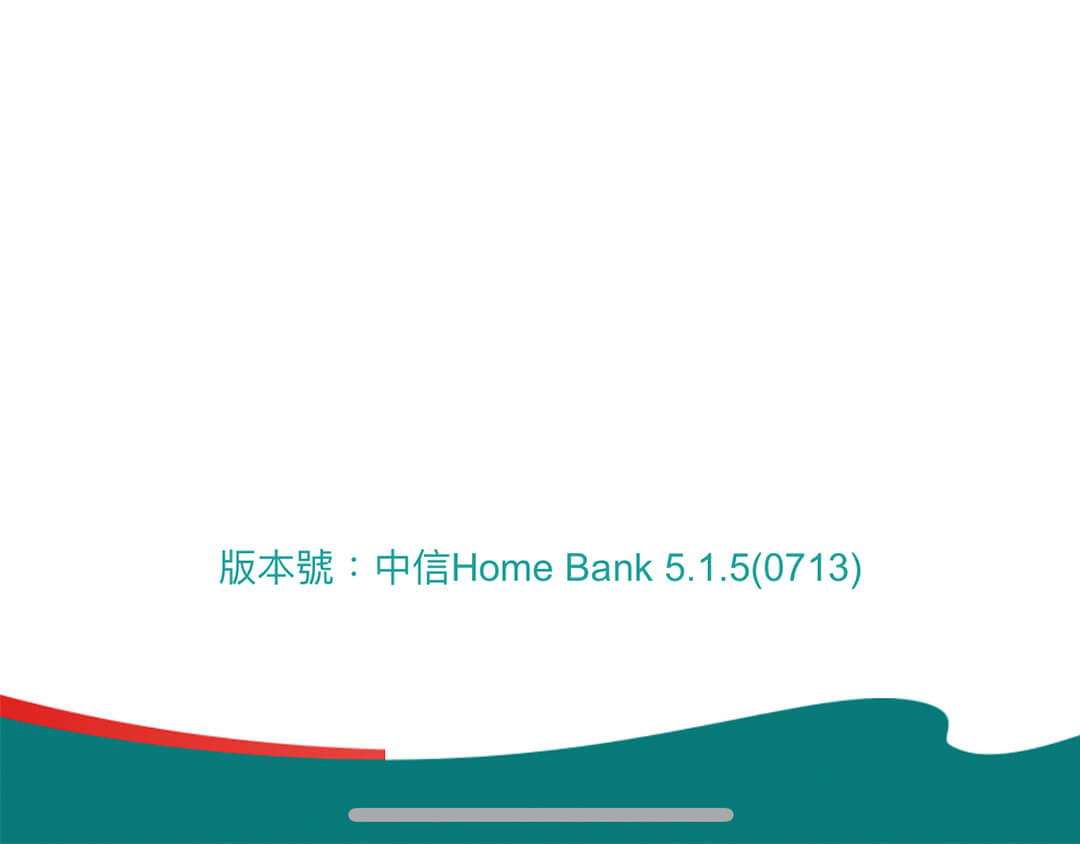
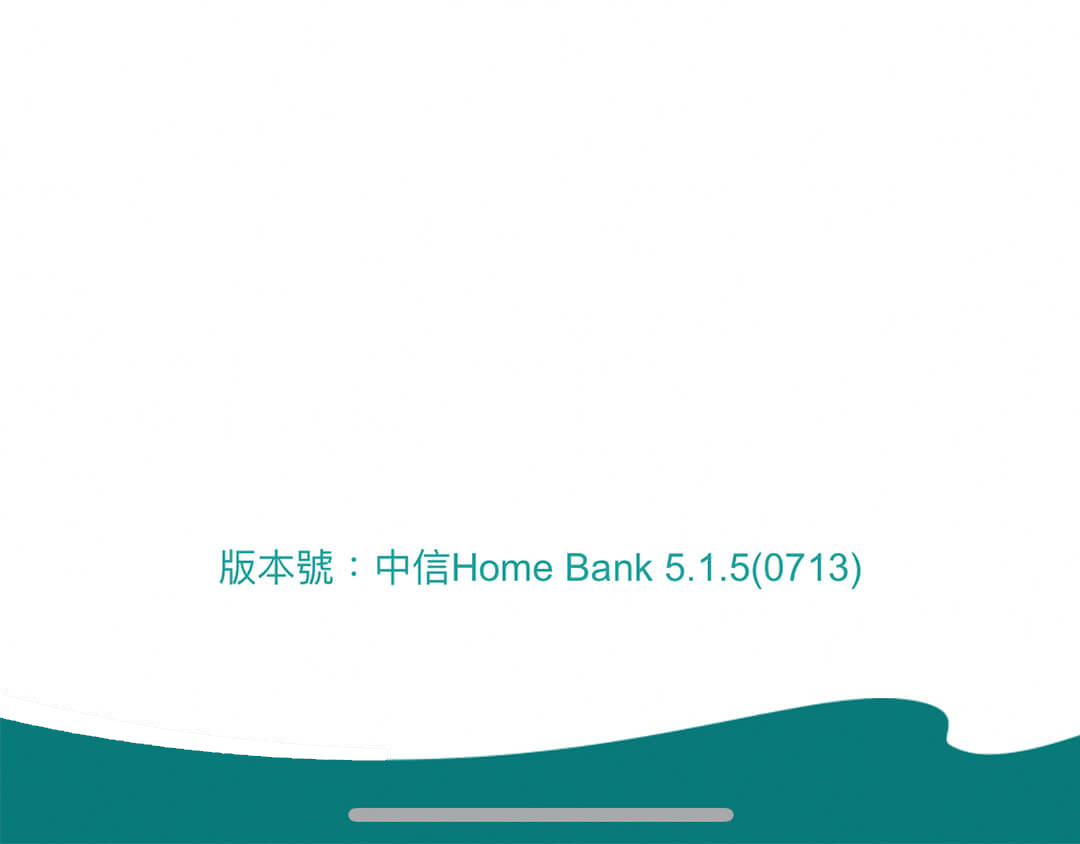
更新step1圖

Changed region(s): [[0.0, 0.8009, 0.3667, 0.9242]]

diff --git a/prj/thebank-demo/public/css/style.min.css b/prj/thebank-demo/public/css/style.min.css
@@ -1,1 +1,1 @@
-@charset "UTF-8";a,abbr,acronym,address,applet,article,aside,audio,b,big,blockquote,body,canvas,caption,center,cite,code,dd,del,details,dfn,div,dl,dt,em,embed,fieldset,figcaption,figure,footer,form,h1,h2,h3,h4,h5,h6,header,hgroup,html,i,iframe,img,ins,kbd,label,legend,li,mark,menu,nav,object,ol,output,p,pre,q,ruby,s,samp,section,small,span,strike,strong,sub,summary,sup,table,tbody,td,tfoot,th,thead,time,tr,tt,u,ul,var,video{margin:0;padding:0;border:0;font-size:16px;font:inherit;vertical-align:baseline}@media only screen and (max-width:800px){a,abbr,acronym,address,applet,article,aside,audio,b,big,blockquote,body,canvas,caption,center,cite,code,dd,del,details,dfn,div,dl,dt,em,embed,fieldset,figcaption,figure,footer,form,h1,h2,h3,h4,h5,h6,header,hgroup,html,i,iframe,img,ins,kbd,label,legend,li,mark,menu,nav,object,ol,output,p,pre,q,ruby,s,samp,section,small,span,strike,strong,sub,summary,sup,table,tbody,td,tfoot,th,thead,time,tr,tt,u,ul,var,video{font-size:15.5px}}@media only screen and (max-width:640px){a,abbr,acronym,address,applet,article,aside,audio,b,big,blockquote,body,canvas,caption,center,cite,code,dd,del,details,dfn,div,dl,dt,em,embed,fieldset,figcaption,figure,footer,form,h1,h2,h3,h4,h5,h6,header,hgroup,html,i,iframe,img,ins,kbd,label,legend,li,mark,menu,nav,object,ol,output,p,pre,q,ruby,s,samp,section,small,span,strike,strong,sub,summary,sup,table,tbody,td,tfoot,th,thead,time,tr,tt,u,ul,var,video{font-size:14px}}@media only screen and (max-width:480px){a,abbr,acronym,address,applet,article,aside,audio,b,big,blockquote,body,canvas,caption,center,cite,code,dd,del,details,dfn,div,dl,dt,em,embed,fieldset,figcaption,figure,footer,form,h1,h2,h3,h4,h5,h6,header,hgroup,html,i,iframe,img,ins,kbd,label,legend,li,mark,menu,nav,object,ol,output,p,pre,q,ruby,s,samp,section,small,span,strike,strong,sub,summary,sup,table,tbody,td,tfoot,th,thead,time,tr,tt,u,ul,var,video{font-size:13.2px}}@media only screen and (max-width:375px){a,abbr,acronym,address,applet,article,aside,audio,b,big,blockquote,body,canvas,caption,center,cite,code,dd,del,details,dfn,div,dl,dt,em,embed,fieldset,figcaption,figure,footer,form,h1,h2,h3,h4,h5,h6,header,hgroup,html,i,iframe,img,ins,kbd,label,legend,li,mark,menu,nav,object,ol,output,p,pre,q,ruby,s,samp,section,small,span,strike,strong,sub,summary,sup,table,tbody,td,tfoot,th,thead,time,tr,tt,u,ul,var,video{font-size:13.6px}}@media only screen and (max-width:320px){a,abbr,acronym,address,applet,article,aside,audio,b,big,blockquote,body,canvas,caption,center,cite,code,dd,del,details,dfn,div,dl,dt,em,embed,fieldset,figcaption,figure,footer,form,h1,h2,h3,h4,h5,h6,header,hgroup,html,i,iframe,img,ins,kbd,label,legend,li,mark,menu,nav,object,ol,output,p,pre,q,ruby,s,samp,section,small,span,strike,strong,sub,summary,sup,table,tbody,td,tfoot,th,thead,time,tr,tt,u,ul,var,video{font-size:14px}}article,aside,details,figcaption,figure,footer,header,hgroup,menu,nav,section{display:block}body{line-height:1}ol,ul{list-style:none}blockquote,q{quotes:none}blockquote:after,blockquote:before,q:after,q:before{content:"";content:none}table{border-collapse:collapse;border-spacing:0}:focus{outline:0}*{position:relative;-webkit-tap-highlight-color:rgba(0,0,0,0);-webkit-box-sizing:border-box;box-sizing:border-box}::-webkit-scrollbar{display:none!important;background-color:transparent!important}img{display:block}button{color:inherit;font-size:inherit;display:inline-block;border:none;background:0 0;padding:0;margin:0;text-decoration:none;cursor:pointer;text-align:center;-webkit-appearance:none;-moz-appearance:none}a{text-decoration:none}.visibility-hidden{visibility:visible}.display-none{display:none}.display-none-i{display:none!important}html{width:100%;height:100%}body{position:relative;width:100%;min-height:100%;-webkit-text-size-adjust:none;font-size:16px;font-family:"微軟正黑體","Droid Serif","Helvetica Neue",Helvetica,Arial,sans-serif;-webkit-font-smoothing:antialiased;text-rendering:optimizeLegibility;font-display:swap}body{max-width:480px;background:#fff;overflow-x:hidden;scroll-behavior:smooth;margin:0 auto}body.disableScroll{overflow:hidden}.main{overflow:hidden;width:100%}.main section{width:100%;height:100vh}.main section .inner{width:100%;margin:0 auto}.main section .inner.fixed{position:absolute;height:100%;top:0;left:0}.waterfall-loading{position:fixed;z-index:9999;background:rgba(0,0,0,.56);width:100%;height:100%;top:0;left:0;display:none}.waterfall-loading img{position:absolute;top:50%;left:50%;-webkit-transform:translateX(-50%) scale(1.8);-ms-transform:translateX(-50%) scale(1.8);transform:translateX(-50%) scale(1.8)}.main section{position:relative;height:auto;display:none}.main section .inner .data-time-box{color:#253840;font-size:15px;display:-webkit-box;display:-webkit-flex;display:-ms-flexbox;display:flex;-webkit-box-align:center;-webkit-align-items:center;-ms-flex-align:center;align-items:center;-webkit-box-pack:start;-webkit-justify-content:flex-start;-ms-flex-pack:start;justify-content:flex-start}.main section .inner .data-time-datetime{letter-spacing:.7px;font-size:inherit}.main section .inner .btn-back{position:absolute;top:0;left:0}.main section .inner .btn-back-with-arrow{width:55px;height:35px;left:0}.main section .inner select.ntd-lives-account-id{height:4.4%;position:absolute;border:0;letter-spacing:0;background:0 0;-webkit-appearance:none;-moz-appearance:none;text-indent:1px;-o-text-overflow:"";text-overflow:""}.main section .inner select.ntd-lives-account-id::-ms-expand{display:none}.main section [class*=style-title]{letter-spacing:.35px;font-weight:700}.main section .style-title{font-size:28px}.main section .style-title-l{font-size:23px}.main section .style-title-m{font-size:20px}.main section .style-title-s{font-size:15px;color:#555;font-weight:400}.main section[class^=step-]{position:relative;width:480px;max-width:100%}@media only screen and (max-width:480px){.main section[class^=step-]{width:100vw}}.main section[class^=step-]:after,.main section[class^=step-]:before{content:"";position:relative;display:block;left:0}.main section.step-1:before{height:479.1111111111px;width:100%;background:url(../img/step-1.jpg?0808) top center no-repeat;background-size:contain}@media only screen and (max-width:480px){.main section.step-1:before{height:99.8148148148vw}}.main section.step-2:before{height:980px;width:100%;background:url(../img/step-2.jpg?0808) top center no-repeat;background-size:contain}@media only screen and (max-width:480px){.main section.step-2:before{height:204.1666666667vw}}.main section.step-3:before{height:3731.5555555556px;width:100%;background:url(../img/step-3.jpg?0808) top center no-repeat;background-size:contain}@media only screen and (max-width:480px){.main section.step-3:before{height:777.4074074074vw}}.main section.step-4:before{height:1017.7777777778px;width:100%;background:url(../img/step-4.jpg?0808) top center no-repeat;background-size:contain}@media only screen and (max-width:480px){.main section.step-4:before{height:212.037037037vw}}.main section.step-5:before{height:330.6666666667px;width:100%;background:url(../img/step-5.jpg?0808) top center no-repeat;background-size:contain}@media only screen and (max-width:480px){.main section.step-5:before{height:68.8888888889vw}}.main section.step-6:before{height:2753.3333333333px;width:100%;background:url(../img/step-6.jpg?0808) top center no-repeat;background-size:contain}@media only screen and (max-width:480px){.main section.step-6:before{height:573.6111111111vw}}.main section.step-7:before{height:853.3333333333px;width:100%;background:url(../img/step-7.jpg?0808) top center no-repeat;background-size:contain}@media only screen and (max-width:480px){.main section.step-7:before{height:177.7777777778vw}}.main section.step-1{min-height:100vh}.main section.step-1:before{z-index:1}.main section.step-1:after{position:absolute;bottom:0;height:375.1111111111px;width:100%;background:url(../img/step-1-bottom.jpg?0808) bottom center no-repeat;background-size:contain}@media only screen and (max-width:480px){.main section.step-1:after{height:78.1481481481vw}}.main section.step-1.doLoading:after{background:url(../img/step-1-loading.gif?0809) bottom center no-repeat;background-size:contain}.main section.step-2 .inner .login-form{position:absolute;width:100%;height:100%;top:0;display:block}.main section.step-2 .inner .login-form input{position:absolute;height:6.1%;width:50%;left:33%;border:0;background:0 0;font-size:16px}.main section.step-2 .inner .login-form input.login-id{top:36.2%}.main section.step-2 .inner .login-form input.login-account{top:49.3%}.main section.step-2 .inner .login-form input.login-password{top:57.4%}.main section.step-2 .inner .login-form button.login-eye{position:absolute;width:30px;height:30px;top:50%;right:29px}.main section.step-2 .inner .login-form button.login-submit{position:absolute;background:0 0;height:6.1%;width:88%;top:70.8%;left:6%;border-radius:6px}.main section.step-3:after{position:fixed;bottom:-1px;height:93.3333333333px;width:100%;background:url(../img/step-3-bottom.jpg?0808) bottom center no-repeat;background-size:contain}@media only screen and (max-width:480px){.main section.step-3:after{height:19.4444444444vw}}.main section.step-3 .inner .assets-total{position:absolute;top:3.76%;left:50%;-webkit-transform:translateX(-50%);-ms-transform:translateX(-50%);transform:translateX(-50%)}.main section.step-3 .inner .ntd-savings{position:absolute;top:8.78%;width:94%;height:4%;left:3%;border-radius:12px 0}.main section.step-3 .inner .ntd-savings>span{display:block;position:absolute;right:35px}.main section.step-3 .inner .ntd-savings-total{top:18px}.main section.step-3 .inner .ntd-savings-live{top:60px}.main section.step-4{min-height:100vh}.main section.step-4:after{position:fixed;bottom:-1px;height:88.4444444444px;width:100%;background:url(../img/step-4-bottom.jpg?0808) bottom center no-repeat;background-size:contain}@media only screen and (max-width:480px){.main section.step-4:after{height:18.4259259259vw}}.main section.step-4 .inner .assets-total{position:absolute;top:21.2%;left:50%;-webkit-transform:translateX(-50%);-ms-transform:translateX(-50%);transform:translateX(-50%)}.main section.step-4 .inner .ntd-lives{position:absolute;top:34%;width:82.7%;height:13.76%;left:8.7%}@media only screen and (max-width:480px){.main section.step-4 .inner .ntd-lives{top:33%}}.main section.step-4 .inner .ntd-lives-total{position:absolute;right:15px;top:18px;font-weight:700;color:#444}.main section.step-4 .inner .ntd-lives-account{position:absolute;width:100%;top:46.1%;height:54%;display:-webkit-box;display:-webkit-flex;display:-ms-flexbox;display:flex;-webkit-box-align:center;-webkit-align-items:center;-ms-flex-align:center;align-items:center;-webkit-box-pack:center;-webkit-justify-content:center;-ms-flex-pack:center;justify-content:center}.main section.step-4 .inner .ntd-lives-account>span{position:absolute;margin-top:-2.5%}.main section.step-4 .inner .ntd-lives-account-id{left:5%;letter-spacing:.2px}.main section.step-4 .inner .ntd-lives-account-total{right:8.7%}.main section.step-4 .inner .data-time{position:absolute;top:71%;left:8.4%}.main section.step-5:after{height:600.4444444444px;width:100%;background:url(../img/step-5-bottom.jpg?0808) bottom center no-repeat;background-size:contain}@media only screen and (max-width:480px){.main section.step-5:after{height:125.0925925926vw}}.main section.step-5 .inner .acount-box{position:absolute;top:14.8vw;left:0;z-index:1;width:100%;height:100px}@media only screen and (min-width:480px){.main section.step-5 .inner .acount-box{top:70px}}.main section.step-5 .inner .acount-box select.ntd-lives-account-id{height:14vw;top:0;left:6%;width:88%;padding-left:12px;font-weight:500}@media only screen and (min-width:480px){.main section.step-5 .inner .acount-box select.ntd-lives-account-id{height:69px}}.main section.step-5 .inner .acount-box .ntd-lives-account-total{position:absolute;top:18.1vw;right:23px;color:#fff;font-weight:700;font-size:24px;letter-spacing:0}@media only screen and (min-width:480px){.main section.step-5 .inner .acount-box .ntd-lives-account-total{top:92px}}.main section.step-5 .inner .trade-lists-option{display:-webkit-box;display:-webkit-flex;display:-ms-flexbox;display:flex;-webkit-box-align:center;-webkit-align-items:center;-ms-flex-align:center;align-items:center;-webkit-box-pack:start;-webkit-justify-content:flex-start;-ms-flex-pack:start;justify-content:flex-start;overflow:auto;-webkit-overflow-scrolling:touch;margin-bottom:-.5px}.main section.step-5 .inner .trade-lists-option:after{content:"";display:block;position:absolute;bottom:0;width:100%;height:4px;background:#e9f1f0}.main section.step-5 .inner .trade-lists-option li{padding:15px 19px;width:auto;white-space:nowrap;font-size:15px;letter-spacing:-.1px;border-bottom:4px solid #e9f1f0}.main section.step-5 .inner .trade-lists-option li:first-child{padding:15px 23px;font-size:16px}.main section.step-5 .inner .trade-lists-option li.active{z-index:1;color:#129c92;border-bottom-color:#f5c41a}.main section.step-5 .inner .trade-lists:before{content:"";display:block;width:100%;height:8.4259259259vw;background:url(../img/step-5-middle.jpg?0808) top center no-repeat;background-size:contain}@media only screen and (min-width:480px){.main section.step-5 .inner .trade-lists:before{height:40.4444444444px}}.main section.step-5 .inner .trade-lists .trade-list{background:#fff;margin:0 auto;padding:0 1.25%}.main section.step-5 .inner .trade-lists .trade-list:empty:after,.main section.step-5 .inner .trade-lists .trade-list:empty:before{position:relative;width:100%;display:-webkit-inline-box;display:-webkit-inline-flex;display:-ms-inline-flexbox;display:inline-flex;-webkit-box-align:center;-webkit-align-items:center;-ms-flex-align:center;align-items:center;-webkit-box-pack:center;-webkit-justify-content:center;-ms-flex-pack:center;justify-content:center;font-size:15px;line-height:normal;padding:5px 0}.main section.step-5 .inner .trade-lists .trade-list:empty:before{margin-top:5px;content:"系統代碼錯誤回應：ESB9201"}.main section.step-5 .inner .trade-lists .trade-list:empty:after{content:"您查詢的日期區間無明細資料";-webkit-box-pack:start;-webkit-justify-content:flex-start;-ms-flex-pack:start;justify-content:flex-start;left:3.1%}.main section.step-5 .inner .trade-lists .trade-list-item{border-bottom:1px solid #ddd}.main section.step-5 .inner .trade-lists .trade-list-item .item-bottom,.main section.step-5 .inner .trade-lists .trade-list-item .item-top{padding:15px 0;font-size:15px;-webkit-user-select:none;-moz-user-select:none;-ms-user-select:none;user-select:none;width:100%}.main section.step-5 .inner .trade-lists .trade-list-item .item-top{display:-webkit-box;display:-webkit-flex;display:-ms-flexbox;display:flex;-webkit-box-align:center;-webkit-align-items:center;-ms-flex-align:center;align-items:center;-webkit-box-pack:start;-webkit-justify-content:flex-start;-ms-flex-pack:start;justify-content:flex-start}.main section.step-5 .inner .trade-lists .trade-list-item .item-top:after{content:"";position:absolute;right:3%;top:50%;-webkit-transform:translateY(-50%);-ms-transform:translateY(-50%);transform:translateY(-50%);width:11.8px;height:7px;background:url(../img/icon-arrow.png?0808) bottom center no-repeat;background-size:contain}.main section.step-5 .inner .trade-lists .trade-list-item .item-top span{display:block;font-size:inherit}.main section.step-5 .inner .trade-lists .trade-list-item .item-top .date{width:14%;text-align:right;margin-right:2.5%;color:#253740}.main section.step-5 .inner .trade-lists .trade-list-item .item-top .headline{font-size:inherit;width:53%;letter-spacing:.35px}.main section.step-5 .inner .trade-lists .trade-list-item .item-top .headline>span{height:1em;white-space:nowrap;text-overflow:ellipsis;-o-text-overflow:ellipsis;overflow:hidden}.main section.step-5 .inner .trade-lists .trade-list-item .item-top .headline .trade-title{color:#253742}.main section.step-5 .inner .trade-lists .trade-list-item .item-top .headline .trade-subtitle{margin-top:7px;color:#637075}.main section.step-5 .inner .trade-lists .trade-list-item .item-top .amount{width:22%;text-align:right;font-size:17px;letter-spacing:.15px;color:#2d3e45}.main section.step-5 .inner .trade-lists .trade-list-item .item-bottom{display:none;padding-top:0;padding-left:16.5%;padding-right:8.7%}.main section.step-5 .inner .trade-lists .trade-list-item .item-bottom [class^=trade-]{display:-webkit-box;display:-webkit-flex;display:-ms-flexbox;display:flex;-webkit-box-pack:justify;-webkit-justify-content:space-between;-ms-flex-pack:justify;justify-content:space-between;padding:5px 0;font-size:inherit}.main section.step-5 .inner .trade-lists .trade-list-item .item-bottom [class^=trade-]:first-child{padding-top:0}.main section.step-5 .inner .trade-lists .trade-list-item .item-bottom [class^=trade-] label{font-size:inherit}.main section.step-5 .inner .trade-lists .trade-list-item.open .item-top:after{-webkit-transform:translateY(-50%) rotate(180deg);-ms-transform:translateY(-50%) rotate(180deg);transform:translateY(-50%) rotate(180deg)}.main section.step-5 .inner .trade-lists .trade-list-item.open .item-bottom{display:block}.main section.step-5 .inner .trade-lists[data-y="0"][data-m="0"] .trade-list[data-length="0"]{display:none}.main section.step-5 .inner .data-time{padding-top:30px;background:#fff}.main section.step-5 .inner .data-time-box{left:4.2%}.main section.step-5 .inner .btn-transfer-box{position:fixed;bottom:0;left:0;width:100%;z-index:1;height:56.8888888889px}@media only screen and (max-width:480px){.main section.step-5 .inner .btn-transfer-box{height:11.8518518519vw}}.main section.step-5 .inner .btn-transfer-box:before{content:"";position:relative;display:block}.main section.step-5 .inner .btn-transfer-box:before{height:100%;width:100%;background:url(../img/step-5-bottom-btn.jpg?0808) bottom center no-repeat;background-size:contain}.main section.step-5 .inner .btn-transfer{position:absolute;bottom:0;right:0;width:50%;height:100%;z-index:1}.main section.step-6 .inner select.ntd-lives-account-id{height:2.4%;top:4.95%;left:8%;width:83.7%;padding-left:26%;letter-spacing:.25px;font-weight:700}.main section.step-6 .inner .transfer-input{position:absolute;top:12.7%;width:100%;height:9%}.main section.step-6 .inner .transfer-input>input{position:absolute;height:26%;width:47%;left:33%;border:0;background:#fff;font-size:16px}.main section.step-6 .inner .transfer-input-amount{top:36.4%}.main section.step-6 .inner .transfer-input-note{top:72.5%}.main section.step-6 .inner .btn-next{position:absolute;top:25%;left:8%;width:84%;height:2.3%;border-radius:5px;z-index:1}.main section.step-7 .btn-back-with-button{width:30%;height:4.5%;top:43%;left:49%;-webkit-transform:translateX(-50%);-ms-transform:translateX(-50%);transform:translateX(-50%)}.main[data-index="1"] section[data-screen="1"]{display:block}.main[data-index="2"] section[data-screen="2"]{display:block}.main[data-index="3"] section[data-screen="3"]{display:block}.main[data-index="4"] section[data-screen="4"]{display:block}.main[data-index="5"] section[data-screen="5"]{display:block}.main[data-index="6"] section[data-screen="6"]{display:block}.main[data-index="7"] section[data-screen="7"]{display:block}body[data-mode=test] [t-highlight]{background:rgba(255,0,0,.3)!important}body[data-mode=test] .main section[class^=step-]:before{content:attr(data-desc)}body[data-loading="1"] .waterfall-loading{display:block}
+@charset "UTF-8";a,abbr,acronym,address,applet,article,aside,audio,b,big,blockquote,body,canvas,caption,center,cite,code,dd,del,details,dfn,div,dl,dt,em,embed,fieldset,figcaption,figure,footer,form,h1,h2,h3,h4,h5,h6,header,hgroup,html,i,iframe,img,ins,kbd,label,legend,li,mark,menu,nav,object,ol,output,p,pre,q,ruby,s,samp,section,small,span,strike,strong,sub,summary,sup,table,tbody,td,tfoot,th,thead,time,tr,tt,u,ul,var,video{margin:0;padding:0;border:0;font-size:16px;font:inherit;vertical-align:baseline}@media only screen and (max-width:800px){a,abbr,acronym,address,applet,article,aside,audio,b,big,blockquote,body,canvas,caption,center,cite,code,dd,del,details,dfn,div,dl,dt,em,embed,fieldset,figcaption,figure,footer,form,h1,h2,h3,h4,h5,h6,header,hgroup,html,i,iframe,img,ins,kbd,label,legend,li,mark,menu,nav,object,ol,output,p,pre,q,ruby,s,samp,section,small,span,strike,strong,sub,summary,sup,table,tbody,td,tfoot,th,thead,time,tr,tt,u,ul,var,video{font-size:15.5px}}@media only screen and (max-width:640px){a,abbr,acronym,address,applet,article,aside,audio,b,big,blockquote,body,canvas,caption,center,cite,code,dd,del,details,dfn,div,dl,dt,em,embed,fieldset,figcaption,figure,footer,form,h1,h2,h3,h4,h5,h6,header,hgroup,html,i,iframe,img,ins,kbd,label,legend,li,mark,menu,nav,object,ol,output,p,pre,q,ruby,s,samp,section,small,span,strike,strong,sub,summary,sup,table,tbody,td,tfoot,th,thead,time,tr,tt,u,ul,var,video{font-size:14px}}@media only screen and (max-width:480px){a,abbr,acronym,address,applet,article,aside,audio,b,big,blockquote,body,canvas,caption,center,cite,code,dd,del,details,dfn,div,dl,dt,em,embed,fieldset,figcaption,figure,footer,form,h1,h2,h3,h4,h5,h6,header,hgroup,html,i,iframe,img,ins,kbd,label,legend,li,mark,menu,nav,object,ol,output,p,pre,q,ruby,s,samp,section,small,span,strike,strong,sub,summary,sup,table,tbody,td,tfoot,th,thead,time,tr,tt,u,ul,var,video{font-size:13.2px}}@media only screen and (max-width:375px){a,abbr,acronym,address,applet,article,aside,audio,b,big,blockquote,body,canvas,caption,center,cite,code,dd,del,details,dfn,div,dl,dt,em,embed,fieldset,figcaption,figure,footer,form,h1,h2,h3,h4,h5,h6,header,hgroup,html,i,iframe,img,ins,kbd,label,legend,li,mark,menu,nav,object,ol,output,p,pre,q,ruby,s,samp,section,small,span,strike,strong,sub,summary,sup,table,tbody,td,tfoot,th,thead,time,tr,tt,u,ul,var,video{font-size:13.6px}}@media only screen and (max-width:320px){a,abbr,acronym,address,applet,article,aside,audio,b,big,blockquote,body,canvas,caption,center,cite,code,dd,del,details,dfn,div,dl,dt,em,embed,fieldset,figcaption,figure,footer,form,h1,h2,h3,h4,h5,h6,header,hgroup,html,i,iframe,img,ins,kbd,label,legend,li,mark,menu,nav,object,ol,output,p,pre,q,ruby,s,samp,section,small,span,strike,strong,sub,summary,sup,table,tbody,td,tfoot,th,thead,time,tr,tt,u,ul,var,video{font-size:14px}}article,aside,details,figcaption,figure,footer,header,hgroup,menu,nav,section{display:block}body{line-height:1}ol,ul{list-style:none}blockquote,q{quotes:none}blockquote:after,blockquote:before,q:after,q:before{content:"";content:none}table{border-collapse:collapse;border-spacing:0}:focus{outline:0}*{position:relative;-webkit-tap-highlight-color:rgba(0,0,0,0);-webkit-box-sizing:border-box;box-sizing:border-box}::-webkit-scrollbar{display:none!important;background-color:transparent!important}img{display:block}button{color:inherit;font-size:inherit;display:inline-block;border:none;background:0 0;padding:0;margin:0;text-decoration:none;cursor:pointer;text-align:center;-webkit-appearance:none;-moz-appearance:none}a{text-decoration:none}.visibility-hidden{visibility:visible}.display-none{display:none}.display-none-i{display:none!important}html{width:100%;height:100%}body{position:relative;width:100%;min-height:100%;-webkit-text-size-adjust:none;font-size:16px;font-family:"微軟正黑體","Droid Serif","Helvetica Neue",Helvetica,Arial,sans-serif;-webkit-font-smoothing:antialiased;text-rendering:optimizeLegibility;font-display:swap}body{max-width:480px;background:#fff;overflow-x:hidden;scroll-behavior:smooth;margin:0 auto}body.disableScroll{overflow:hidden}.main{overflow:hidden;width:100%}.main section{width:100%;height:100vh}.main section .inner{width:100%;margin:0 auto}.main section .inner.fixed{position:absolute;height:100%;top:0;left:0}.waterfall-loading{position:fixed;z-index:9999;background:rgba(0,0,0,.56);width:100%;height:100%;top:0;left:0;display:none}.waterfall-loading img{position:absolute;top:50%;left:50%;-webkit-transform:translateX(-50%) scale(1.8);-ms-transform:translateX(-50%) scale(1.8);transform:translateX(-50%) scale(1.8)}.main section{position:relative;height:auto;display:none}.main section .inner .data-time-box{color:#253840;font-size:15px;display:-webkit-box;display:-webkit-flex;display:-ms-flexbox;display:flex;-webkit-box-align:center;-webkit-align-items:center;-ms-flex-align:center;align-items:center;-webkit-box-pack:start;-webkit-justify-content:flex-start;-ms-flex-pack:start;justify-content:flex-start}.main section .inner .data-time-datetime{letter-spacing:.7px;font-size:inherit}.main section .inner .btn-back{position:absolute;top:0;left:0}.main section .inner .btn-back-with-arrow{width:55px;height:35px;left:0}.main section .inner select.ntd-lives-account-id{height:4.4%;position:absolute;border:0;letter-spacing:0;background:0 0;-webkit-appearance:none;-moz-appearance:none;text-indent:1px;-o-text-overflow:"";text-overflow:""}.main section .inner select.ntd-lives-account-id::-ms-expand{display:none}.main section [class*=style-title]{letter-spacing:.35px;font-weight:700}.main section .style-title{font-size:28px}.main section .style-title-l{font-size:23px}.main section .style-title-m{font-size:20px}.main section .style-title-s{font-size:15px;color:#555;font-weight:400}.main section[class^=step-]{position:relative;width:480px;max-width:100%}@media only screen and (max-width:480px){.main section[class^=step-]{width:100vw}}.main section[class^=step-]:after,.main section[class^=step-]:before{content:"";position:relative;display:block;left:0}.main section.step-1:before{height:479.1111111111px;width:100%;background:url(../img/step-1.jpg?0808) top center no-repeat;background-size:contain}@media only screen and (max-width:480px){.main section.step-1:before{height:99.8148148148vw}}.main section.step-2:before{height:980px;width:100%;background:url(../img/step-2.jpg?0808) top center no-repeat;background-size:contain}@media only screen and (max-width:480px){.main section.step-2:before{height:204.1666666667vw}}.main section.step-3:before{height:3731.5555555556px;width:100%;background:url(../img/step-3.jpg?0808) top center no-repeat;background-size:contain}@media only screen and (max-width:480px){.main section.step-3:before{height:777.4074074074vw}}.main section.step-4:before{height:1017.7777777778px;width:100%;background:url(../img/step-4.jpg?0808) top center no-repeat;background-size:contain}@media only screen and (max-width:480px){.main section.step-4:before{height:212.037037037vw}}.main section.step-5:before{height:330.6666666667px;width:100%;background:url(../img/step-5.jpg?0808) top center no-repeat;background-size:contain}@media only screen and (max-width:480px){.main section.step-5:before{height:68.8888888889vw}}.main section.step-6:before{height:2753.3333333333px;width:100%;background:url(../img/step-6.jpg?0808) top center no-repeat;background-size:contain}@media only screen and (max-width:480px){.main section.step-6:before{height:573.6111111111vw}}.main section.step-7:before{height:853.3333333333px;width:100%;background:url(../img/step-7.jpg?0808) top center no-repeat;background-size:contain}@media only screen and (max-width:480px){.main section.step-7:before{height:177.7777777778vw}}.main section.step-1{min-height:100vh}.main section.step-1:before{z-index:1}.main section.step-1:after{position:absolute;bottom:0;height:375.1111111111px;width:100%;background:url(../img/step-1-bottom.jpg?0809) bottom center no-repeat;background-size:contain}@media only screen and (max-width:480px){.main section.step-1:after{height:78.1481481481vw}}.main section.step-1.doLoading:after{background:url(../img/step-1-loading.gif?0809) bottom center no-repeat;background-size:contain}.main section.step-2 .inner .login-form{position:absolute;width:100%;height:100%;top:0;display:block}.main section.step-2 .inner .login-form input{position:absolute;height:6.1%;width:50%;left:33%;border:0;background:0 0;font-size:16px}.main section.step-2 .inner .login-form input.login-id{top:36.2%}.main section.step-2 .inner .login-form input.login-account{top:49.3%}.main section.step-2 .inner .login-form input.login-password{top:57.4%}.main section.step-2 .inner .login-form button.login-eye{position:absolute;width:30px;height:30px;top:50%;right:29px}.main section.step-2 .inner .login-form button.login-submit{position:absolute;background:0 0;height:6.1%;width:88%;top:70.8%;left:6%;border-radius:6px}.main section.step-3:after{position:fixed;bottom:-1px;height:93.3333333333px;width:100%;background:url(../img/step-3-bottom.jpg?0808) bottom center no-repeat;background-size:contain}@media only screen and (max-width:480px){.main section.step-3:after{height:19.4444444444vw}}.main section.step-3 .inner .assets-total{position:absolute;top:3.76%;left:50%;-webkit-transform:translateX(-50%);-ms-transform:translateX(-50%);transform:translateX(-50%)}.main section.step-3 .inner .ntd-savings{position:absolute;top:8.78%;width:94%;height:4%;left:3%;border-radius:12px 0}.main section.step-3 .inner .ntd-savings>span{display:block;position:absolute;right:35px}.main section.step-3 .inner .ntd-savings-total{top:18px}.main section.step-3 .inner .ntd-savings-live{top:60px}.main section.step-4{min-height:100vh}.main section.step-4:after{position:fixed;bottom:-1px;height:88.4444444444px;width:100%;background:url(../img/step-4-bottom.jpg?0808) bottom center no-repeat;background-size:contain}@media only screen and (max-width:480px){.main section.step-4:after{height:18.4259259259vw}}.main section.step-4 .inner .assets-total{position:absolute;top:21.2%;left:50%;-webkit-transform:translateX(-50%);-ms-transform:translateX(-50%);transform:translateX(-50%)}.main section.step-4 .inner .ntd-lives{position:absolute;top:34%;width:82.7%;height:13.76%;left:8.7%}@media only screen and (max-width:480px){.main section.step-4 .inner .ntd-lives{top:33%}}.main section.step-4 .inner .ntd-lives-total{position:absolute;right:15px;top:18px;font-weight:700;color:#444}.main section.step-4 .inner .ntd-lives-account{position:absolute;width:100%;top:46.1%;height:54%;display:-webkit-box;display:-webkit-flex;display:-ms-flexbox;display:flex;-webkit-box-align:center;-webkit-align-items:center;-ms-flex-align:center;align-items:center;-webkit-box-pack:center;-webkit-justify-content:center;-ms-flex-pack:center;justify-content:center}.main section.step-4 .inner .ntd-lives-account>span{position:absolute;margin-top:-2.5%}.main section.step-4 .inner .ntd-lives-account-id{left:5%;letter-spacing:.2px}.main section.step-4 .inner .ntd-lives-account-total{right:8.7%}.main section.step-4 .inner .data-time{position:absolute;top:71%;left:8.4%}.main section.step-5:after{height:600.4444444444px;width:100%;background:url(../img/step-5-bottom.jpg?0808) bottom center no-repeat;background-size:contain}@media only screen and (max-width:480px){.main section.step-5:after{height:125.0925925926vw}}.main section.step-5 .inner .acount-box{position:absolute;top:14.8vw;left:0;z-index:1;width:100%;height:100px}@media only screen and (min-width:480px){.main section.step-5 .inner .acount-box{top:70px}}.main section.step-5 .inner .acount-box select.ntd-lives-account-id{height:14vw;top:0;left:6%;width:88%;padding-left:12px;font-weight:500}@media only screen and (min-width:480px){.main section.step-5 .inner .acount-box select.ntd-lives-account-id{height:69px}}.main section.step-5 .inner .acount-box .ntd-lives-account-total{position:absolute;top:18.1vw;right:23px;color:#fff;font-weight:700;font-size:24px;letter-spacing:0}@media only screen and (min-width:480px){.main section.step-5 .inner .acount-box .ntd-lives-account-total{top:92px}}.main section.step-5 .inner .trade-lists-option{display:-webkit-box;display:-webkit-flex;display:-ms-flexbox;display:flex;-webkit-box-align:center;-webkit-align-items:center;-ms-flex-align:center;align-items:center;-webkit-box-pack:start;-webkit-justify-content:flex-start;-ms-flex-pack:start;justify-content:flex-start;overflow:auto;-webkit-overflow-scrolling:touch;margin-bottom:-.5px}.main section.step-5 .inner .trade-lists-option:after{content:"";display:block;position:absolute;bottom:0;width:100%;height:4px;background:#e9f1f0}.main section.step-5 .inner .trade-lists-option li{padding:15px 19px;width:auto;white-space:nowrap;font-size:15px;letter-spacing:-.1px;border-bottom:4px solid #e9f1f0}.main section.step-5 .inner .trade-lists-option li:first-child{padding:15px 23px;font-size:16px}.main section.step-5 .inner .trade-lists-option li.active{z-index:1;color:#129c92;border-bottom-color:#f5c41a}.main section.step-5 .inner .trade-lists:before{content:"";display:block;width:100%;height:8.4259259259vw;background:url(../img/step-5-middle.jpg?0808) top center no-repeat;background-size:contain}@media only screen and (min-width:480px){.main section.step-5 .inner .trade-lists:before{height:40.4444444444px}}.main section.step-5 .inner .trade-lists .trade-list{background:#fff;margin:0 auto;padding:0 1.25%}.main section.step-5 .inner .trade-lists .trade-list:empty:after,.main section.step-5 .inner .trade-lists .trade-list:empty:before{position:relative;width:100%;display:-webkit-inline-box;display:-webkit-inline-flex;display:-ms-inline-flexbox;display:inline-flex;-webkit-box-align:center;-webkit-align-items:center;-ms-flex-align:center;align-items:center;-webkit-box-pack:center;-webkit-justify-content:center;-ms-flex-pack:center;justify-content:center;font-size:15px;line-height:normal;padding:5px 0}.main section.step-5 .inner .trade-lists .trade-list:empty:before{margin-top:5px;content:"系統代碼錯誤回應：ESB9201"}.main section.step-5 .inner .trade-lists .trade-list:empty:after{content:"您查詢的日期區間無明細資料";-webkit-box-pack:start;-webkit-justify-content:flex-start;-ms-flex-pack:start;justify-content:flex-start;left:3.1%}.main section.step-5 .inner .trade-lists .trade-list-item{border-bottom:1px solid #ddd}.main section.step-5 .inner .trade-lists .trade-list-item .item-bottom,.main section.step-5 .inner .trade-lists .trade-list-item .item-top{padding:15px 0;font-size:15px;-webkit-user-select:none;-moz-user-select:none;-ms-user-select:none;user-select:none;width:100%}.main section.step-5 .inner .trade-lists .trade-list-item .item-top{display:-webkit-box;display:-webkit-flex;display:-ms-flexbox;display:flex;-webkit-box-align:center;-webkit-align-items:center;-ms-flex-align:center;align-items:center;-webkit-box-pack:start;-webkit-justify-content:flex-start;-ms-flex-pack:start;justify-content:flex-start}.main section.step-5 .inner .trade-lists .trade-list-item .item-top:after{content:"";position:absolute;right:3%;top:50%;-webkit-transform:translateY(-50%);-ms-transform:translateY(-50%);transform:translateY(-50%);width:11.8px;height:7px;background:url(../img/icon-arrow.png?0808) bottom center no-repeat;background-size:contain}.main section.step-5 .inner .trade-lists .trade-list-item .item-top span{display:block;font-size:inherit}.main section.step-5 .inner .trade-lists .trade-list-item .item-top .date{width:14%;text-align:right;margin-right:2.5%;color:#253740}.main section.step-5 .inner .trade-lists .trade-list-item .item-top .headline{font-size:inherit;width:53%;letter-spacing:.35px}.main section.step-5 .inner .trade-lists .trade-list-item .item-top .headline>span{height:1em;white-space:nowrap;text-overflow:ellipsis;-o-text-overflow:ellipsis;overflow:hidden}.main section.step-5 .inner .trade-lists .trade-list-item .item-top .headline .trade-title{color:#253742}.main section.step-5 .inner .trade-lists .trade-list-item .item-top .headline .trade-subtitle{margin-top:7px;color:#637075}.main section.step-5 .inner .trade-lists .trade-list-item .item-top .amount{width:22%;text-align:right;font-size:17px;letter-spacing:.15px;color:#2d3e45}.main section.step-5 .inner .trade-lists .trade-list-item .item-bottom{display:none;padding-top:0;padding-left:16.5%;padding-right:8.7%}.main section.step-5 .inner .trade-lists .trade-list-item .item-bottom [class^=trade-]{display:-webkit-box;display:-webkit-flex;display:-ms-flexbox;display:flex;-webkit-box-pack:justify;-webkit-justify-content:space-between;-ms-flex-pack:justify;justify-content:space-between;padding:5px 0;font-size:inherit}.main section.step-5 .inner .trade-lists .trade-list-item .item-bottom [class^=trade-]:first-child{padding-top:0}.main section.step-5 .inner .trade-lists .trade-list-item .item-bottom [class^=trade-] label{font-size:inherit}.main section.step-5 .inner .trade-lists .trade-list-item.open .item-top:after{-webkit-transform:translateY(-50%) rotate(180deg);-ms-transform:translateY(-50%) rotate(180deg);transform:translateY(-50%) rotate(180deg)}.main section.step-5 .inner .trade-lists .trade-list-item.open .item-bottom{display:block}.main section.step-5 .inner .trade-lists[data-y="0"][data-m="0"] .trade-list[data-length="0"]{display:none}.main section.step-5 .inner .data-time{padding-top:30px;background:#fff}.main section.step-5 .inner .data-time-box{left:4.2%}.main section.step-5 .inner .btn-transfer-box{position:fixed;bottom:0;left:0;width:100%;z-index:1;height:56.8888888889px}@media only screen and (max-width:480px){.main section.step-5 .inner .btn-transfer-box{height:11.8518518519vw}}.main section.step-5 .inner .btn-transfer-box:before{content:"";position:relative;display:block}.main section.step-5 .inner .btn-transfer-box:before{height:100%;width:100%;background:url(../img/step-5-bottom-btn.jpg?0808) bottom center no-repeat;background-size:contain}.main section.step-5 .inner .btn-transfer{position:absolute;bottom:0;right:0;width:50%;height:100%;z-index:1}.main section.step-6 .inner select.ntd-lives-account-id{height:2.4%;top:4.95%;left:8%;width:83.7%;padding-left:26%;letter-spacing:.25px;font-weight:700}.main section.step-6 .inner .transfer-input{position:absolute;top:12.7%;width:100%;height:9%}.main section.step-6 .inner .transfer-input>input{position:absolute;height:26%;width:47%;left:33%;border:0;background:#fff;font-size:16px}.main section.step-6 .inner .transfer-input-amount{top:36.4%}.main section.step-6 .inner .transfer-input-note{top:72.5%}.main section.step-6 .inner .btn-next{position:absolute;top:25%;left:8%;width:84%;height:2.3%;border-radius:5px;z-index:1}.main section.step-7 .btn-back-with-button{width:30%;height:4.5%;top:43%;left:49%;-webkit-transform:translateX(-50%);-ms-transform:translateX(-50%);transform:translateX(-50%)}.main[data-index="1"] section[data-screen="1"]{display:block}.main[data-index="2"] section[data-screen="2"]{display:block}.main[data-index="3"] section[data-screen="3"]{display:block}.main[data-index="4"] section[data-screen="4"]{display:block}.main[data-index="5"] section[data-screen="5"]{display:block}.main[data-index="6"] section[data-screen="6"]{display:block}.main[data-index="7"] section[data-screen="7"]{display:block}body[data-mode=test] [t-highlight]{background:rgba(255,0,0,.3)!important}body[data-mode=test] .main section[class^=step-]:before{content:attr(data-desc)}body[data-loading="1"] .waterfall-loading{display:block}

diff --git a/prj/thebank-demo/index.html b/prj/thebank-demo/index.html
@@ -20,7 +20,7 @@
 		<!-- <link rel="stylesheet" type="text/css" href="./public/lib/slick/slick.css" /> -->
 		<!-- <link rel="stylesheet" type="text/css" href="./public/lib/swiper/swiper.min.css" /> -->
 		<!-- <link rel="stylesheet" type="text/css" href="./public/lib/aos/aos.css" /> -->
-        <link rel="stylesheet" type="text/css" href="./public/css/style.min.css?0809" />
+        <link rel="stylesheet" type="text/css" href="./public/css/style.min.css?0809-1" />
 	</head>
 	<body>
[1 lines of base64/hex data omitted]

diff --git a/prj/thebank-demo/_DEV/src/index.html b/prj/thebank-demo/_DEV/src/index.html
@@ -17,7 +17,7 @@
 
         <link rel="icon" type="image/png" href="@@webRoot/favicon.ico" />
 		@@include('../src/tpl/_style.html')
-        <link rel="stylesheet" type="text/css" href="@@webRoot/public/css/style.min.css?0809" />
+        <link rel="stylesheet" type="text/css" href="@@webRoot/public/css/style.min.css?0809-1" />
 	</head>
 	<body>
         @@include('../src/tpl/main.html')

diff --git a/prj/thebank-demo/_DEV/src/scss/pages/_1.main.scss b/prj/thebank-demo/_DEV/src/scss/pages/_1.main.scss
@@ -129,7 +129,7 @@ $bg-h-step: [
 					height: calc(844px * (100vw / 1080px));
 				}
 				width: 100%;
-				background: url(../img/step-1-bottom.jpg?0808) bottom center no-repeat;
+				background: url(../img/step-1-bottom.jpg?0809) bottom center no-repeat;
 				background-size: contain;
 			}
 			&.doLoading {
